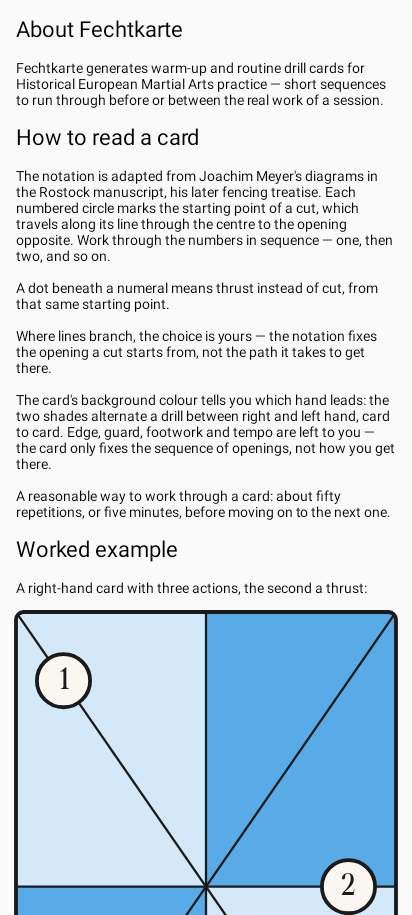
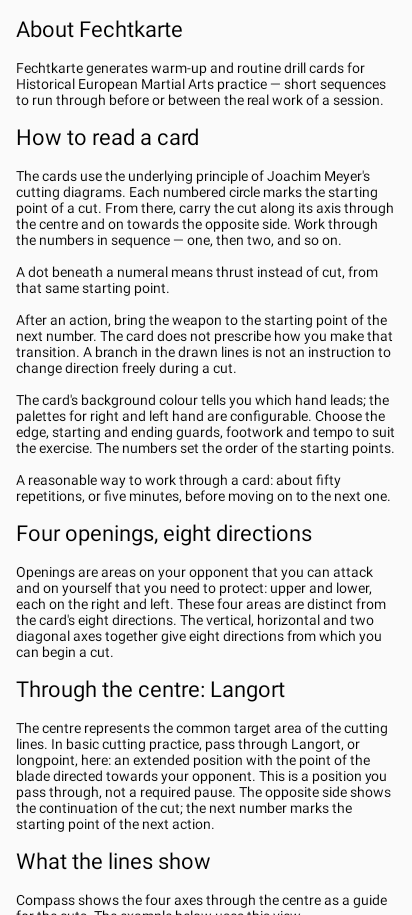
chore: Update dependencies (Kotlin 2.4.20, Room 2.8.5, KSP 2.3.12, Robolectric 4.17, roborazzi 1.74.0) and pin AGP's vulnerable build-tool transitives

diff --git a/app/src/testDebug/java/at/j0s/meyercard/app/adapter/ui/learn/LearnScreenScreenshotTest.kt b/app/src/testDebug/java/at/j0s/meyercard/app/adapter/ui/learn/LearnScreenScreenshotTest.kt
@@ -1,13 +1,20 @@
 package at.j0s.meyercard.app.adapter.ui.learn
 
+import android.content.Context
+import androidx.compose.ui.test.assertIsDisplayed
 import androidx.compose.ui.test.junit4.v2.createComposeRule
+import androidx.compose.ui.test.onNodeWithText
 import androidx.compose.ui.test.onRoot
+import androidx.compose.ui.test.performScrollTo
+import androidx.test.core.app.ApplicationProvider
 import androidx.test.ext.junit.runners.AndroidJUnit4
+import at.j0s.meyercard.app.R
 import com.github.takahirom.roborazzi.RoborazziRule
 import com.github.takahirom.roborazzi.captureRoboImage
 import org.junit.Rule
 import org.junit.Test
 import org.junit.runner.RunWith
+import org.robolectric.annotation.Config
 import org.robolectric.annotation.GraphicsMode
 
 /** Robolectric/Roborazzi, debug-only — same reasoning as the other screenshot tests (T2.4). */
@@ -27,6 +34,35 @@ class LearnScreenScreenshotTest {
     @Test
     fun learnScreenRendersCopyAndWorkedExample() {
         composeTestRule.setContent { LearnScreen(onNoticesClick = {}, onSourcesClick = {}) }
+        composeTestRule.onRoot().captureRoboImage()
+    }
+
+    @Test
+    fun extendedSectionsAndExampleAreReachableInEnglish() = verifyExtendedContent()
+
+    @Test
+    @Config(qualifiers = "de")
+    fun extendedSectionsAndExampleAreReachableInGerman() = verifyExtendedContent()
+
+    @Test
+    @Config(qualifiers = "fr")
+    fun extendedSectionsAndExampleAreReachableInFrench() = verifyExtendedContent()
+
+    private fun verifyExtendedContent() {
+        composeTestRule.setContent { LearnScreen(onNoticesClick = {}, onSourcesClick = {}) }
+        val context = ApplicationProvider.getApplicationContext<Context>()
+        listOf(
+            R.string.learn_openings_body,
+            R.string.learn_centre_body,
+            R.string.learn_lines_compass,
+            R.string.learn_lines_sequence,
+            R.string.learn_lines_bridge,
+            R.string.learn_lines_none,
+            R.string.learn_worked_example_intro,
+            R.string.learn_sources,
+        ).forEach { resource ->
+            composeTestRule.onNodeWithText(context.getString(resource)).performScrollTo().assertIsDisplayed()
+        }
         composeTestRule.onRoot().captureRoboImage()
     }
 }

diff --git a/app/src/main/java/at/j0s/meyercard/app/adapter/ui/learn/LearnScreen.kt b/app/src/main/java/at/j0s/meyercard/app/adapter/ui/learn/LearnScreen.kt
@@ -51,6 +51,18 @@ fun LearnScreen(onNoticesClick: () -> Unit, onSourcesClick: () -> Unit, modifier
         Text(stringResource(R.string.learn_how_to_read_colour))
         Text(stringResource(R.string.learn_how_to_read_repetitions))
 
+        Text(stringResource(R.string.learn_openings_title), style = MaterialTheme.typography.titleLarge)
+        Text(stringResource(R.string.learn_openings_body))
+
+        Text(stringResource(R.string.learn_centre_title), style = MaterialTheme.typography.titleLarge)
+        Text(stringResource(R.string.learn_centre_body))
+
+        Text(stringResource(R.string.learn_lines_title), style = MaterialTheme.typography.titleLarge)
+        Text(stringResource(R.string.learn_lines_compass))
+        Text(stringResource(R.string.learn_lines_sequence))
+        Text(stringResource(R.string.learn_lines_bridge))
+        Text(stringResource(R.string.learn_lines_none))
+
         Text(stringResource(R.string.learn_worked_example_title), style = MaterialTheme.typography.titleLarge)
         Text(stringResource(R.string.learn_worked_example_intro))
         CardArea { MeyerSquareCard(WORKED_EXAMPLE_CARD, modifier = it) }

diff --git a/FEATURES.md b/FEATURES.md
@@ -40,7 +40,10 @@ outer; two, thrust to right outer; three, bottom outer").
 
 **A Learn screen explaining the notation**, with a live worked example: an actual rendered
 card alongside a step-by-step breakdown of what each numbered action means, in the same wording
-a screen reader would announce.
+a screen reader would announce. In English, German and French, it also explains the four
+openings, eight directions, passing through Langort at the centre, and transitions between
+actions. Each line style is explained separately so connections between numbered starting
+points are not mistaken for blade paths.
 
 **An open-source notices screen** (reached from Learn), listing every runtime dependency's
 licence and the numeral font's full OFL licence text.
